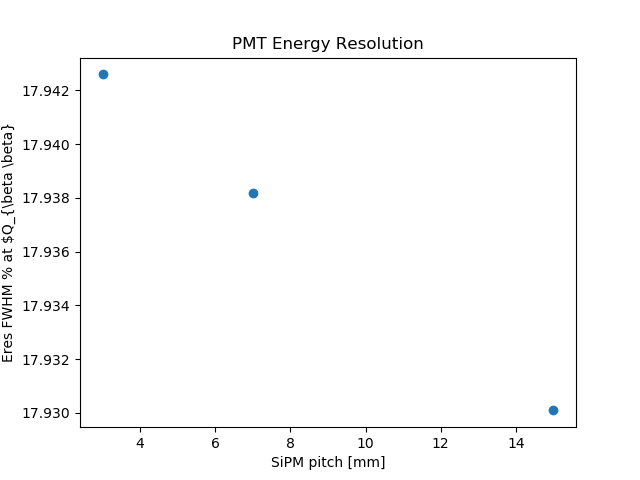
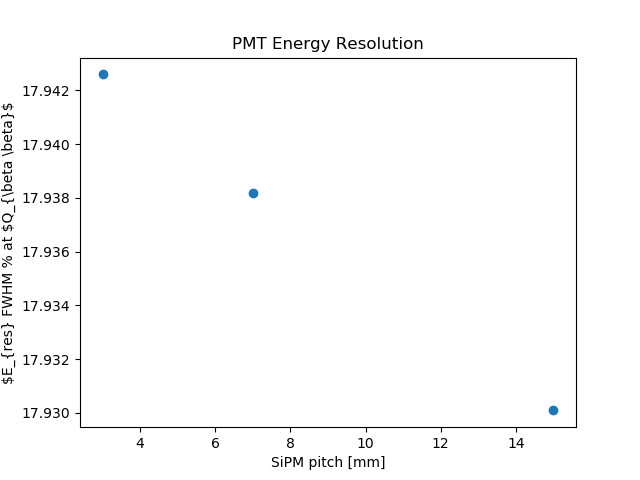
fixed label formatting

Changed region(s): [[0.0, 0.2188, 0.0312, 0.8125]]

diff --git a/sipmstudy_eres.py b/sipmstudy_eres.py
@@ -91,7 +91,7 @@ for mc in mcs:
 pitches = [mc['pitch'] for mc in mcs]
 plt.plot(pitches, [mc['sipm_eres'] for mc in mcs], 'o')
 plt.xlabel('SiPM pitch [mm]')
-plt.ylabel(r'Eres FWHM % at $Q_{\beta \beta}')
+plt.ylabel(r'$E_{res} FWHM % at Q_{\beta \beta}$')
 plt.title('SiPM Energy Resolution')
 plt.savefig(outdir+'sipm_eres.png')
 plt.close()
@@ -99,7 +99,7 @@ plt.close()
 plt.plot(pitches, [mc['pmt_eres'] for mc in mcs], 'o')
 plt.xlabel('SiPM pitch [mm]')
 plt.title('PMT Energy Resolution')
-plt.ylabel(r'Eres FWHM % at $Q_{\beta \beta}')
+plt.ylabel(r'$E_{res} FWHM % at $Q_{\beta \beta}$')
 plt.savefig(outdir+'pmt_eres.png')
 plt.close()
 
